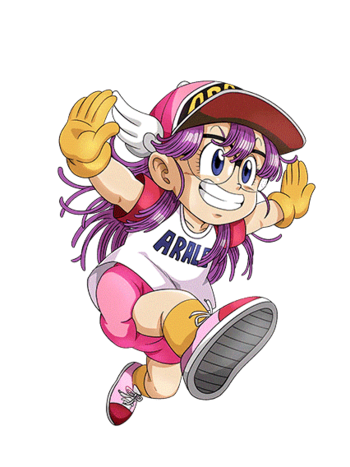
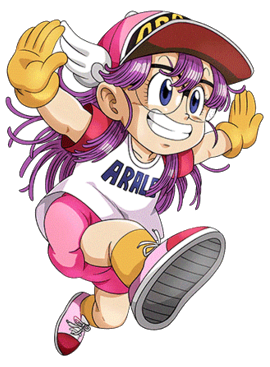
Arale creix i decreix, no surt dels limits

diff --git a/index.js b/index.js
@@ -19,27 +19,29 @@ var mou = 5;
 var arale = document.getElementById("arale");
 var taulell = document.getElementById("taulell");
 
-var taulell_Left = taulell.offsetLeft;
-var taulell_Right = taulell.clientWidth + taulell_Left - arale.clientWidth;
-var taulell_Top = taulell.offsetTop;
-var taulell_Bottom = taulell.clientHeight + taulell_Top - arale.clientHeight;
+var taulell_Left;
+var taulell_Right;
+var taulell_Top;
+var taulell_Bottom;
+posTaulell();
+
 function gamePad() {
   mando = navigator.getGamepads()[0];
   var botons = mando.buttons;
   var eix = mando.axes;
-  if (botons[13].pressed == true) {
+  if (botons[13].pressed) {
     x += mou;
     arale.style.top = x + "px";
   }
-  if (botons[12].pressed == true) {
+  if (botons[12].pressed) {
     x -= mou;
     arale.style.top = x + "px";
   }
-  if (botons[15].pressed == true) {
+  if (botons[15].pressed) {
     y += mou;
     arale.style.left = y + "px";
   }
-  if (botons[14].pressed == true) {
+  if (botons[14].pressed) {
     y -= mou;
     arale.style.left = y + "px";
   }
@@ -73,4 +75,37 @@ function gamePad() {
     }
   }
 }
+function midaArale() {
+  var btn_Creixer = mando.buttons[3];
+  var btn_Decreixer = mando.buttons[0];
+
+  if (btn_Creixer.pressed) {
+    if (arale.clientWidth < 300) {
+      arale.style.setProperty("--wArale", arale.clientWidth + 5 + "px");
+      arale.style.setProperty(
+        "--hArale",
+        arale.clientWidth + (arale.clientWidth * 32) / 100 + "px"
+      );
+    }
+  }
+
+  if (btn_Decreixer.pressed) {
+    if (arale.clientWidth > 70) {
+      arale.style.setProperty("--wArale", arale.clientWidth - 5 + "px");
+      arale.style.setProperty(
+        "--hArale",
+        arale.clientWidth + (arale.clientWidth * 32) / 100 + "px"
+      );
+    }
+  }
+
+  posTaulell();
+}
+function posTaulell() {
+  taulell_Left = taulell.offsetLeft;
+  taulell_Right = taulell.clientWidth + taulell_Left - arale.clientWidth;
+  taulell_Top = taulell.offsetTop;
+  taulell_Bottom = taulell.clientHeight + taulell_Top - arale.clientHeight;
+}
 setInterval("gamePad()", 50);
+setInterval("midaArale()", 50);

diff --git a/index.css b/index.css
@@ -1,6 +1,6 @@
 body{
     --wArale: 100px;
-    --hArale: calc(var(--wArale) + (var(--wArale) * 22 /100) );
+    --hArale: calc(var(--wArale) + (var(--wArale) * 32 /100) );
     height: 100vh;
     margin: 0;
     display: flex;
